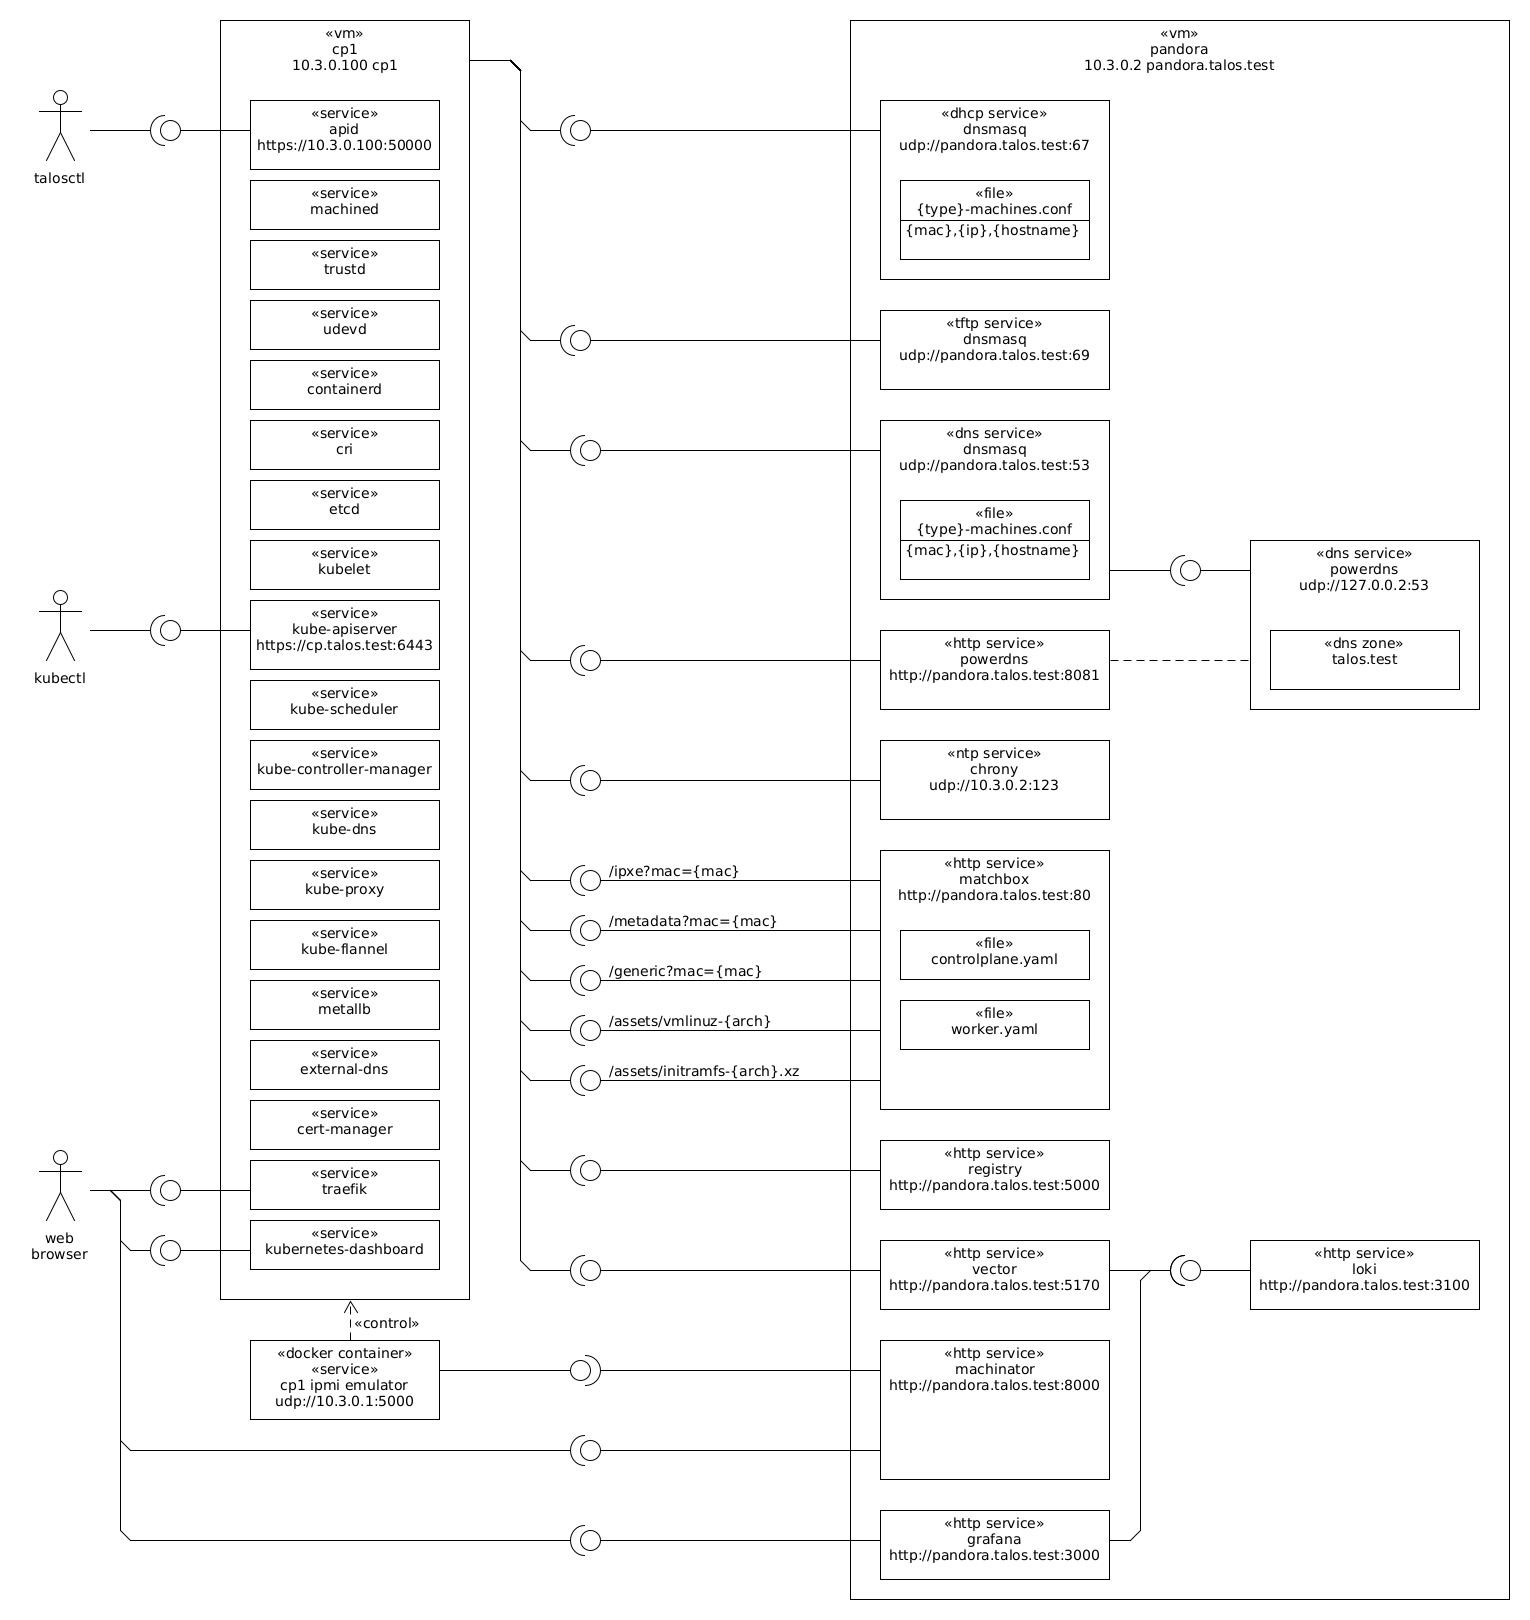
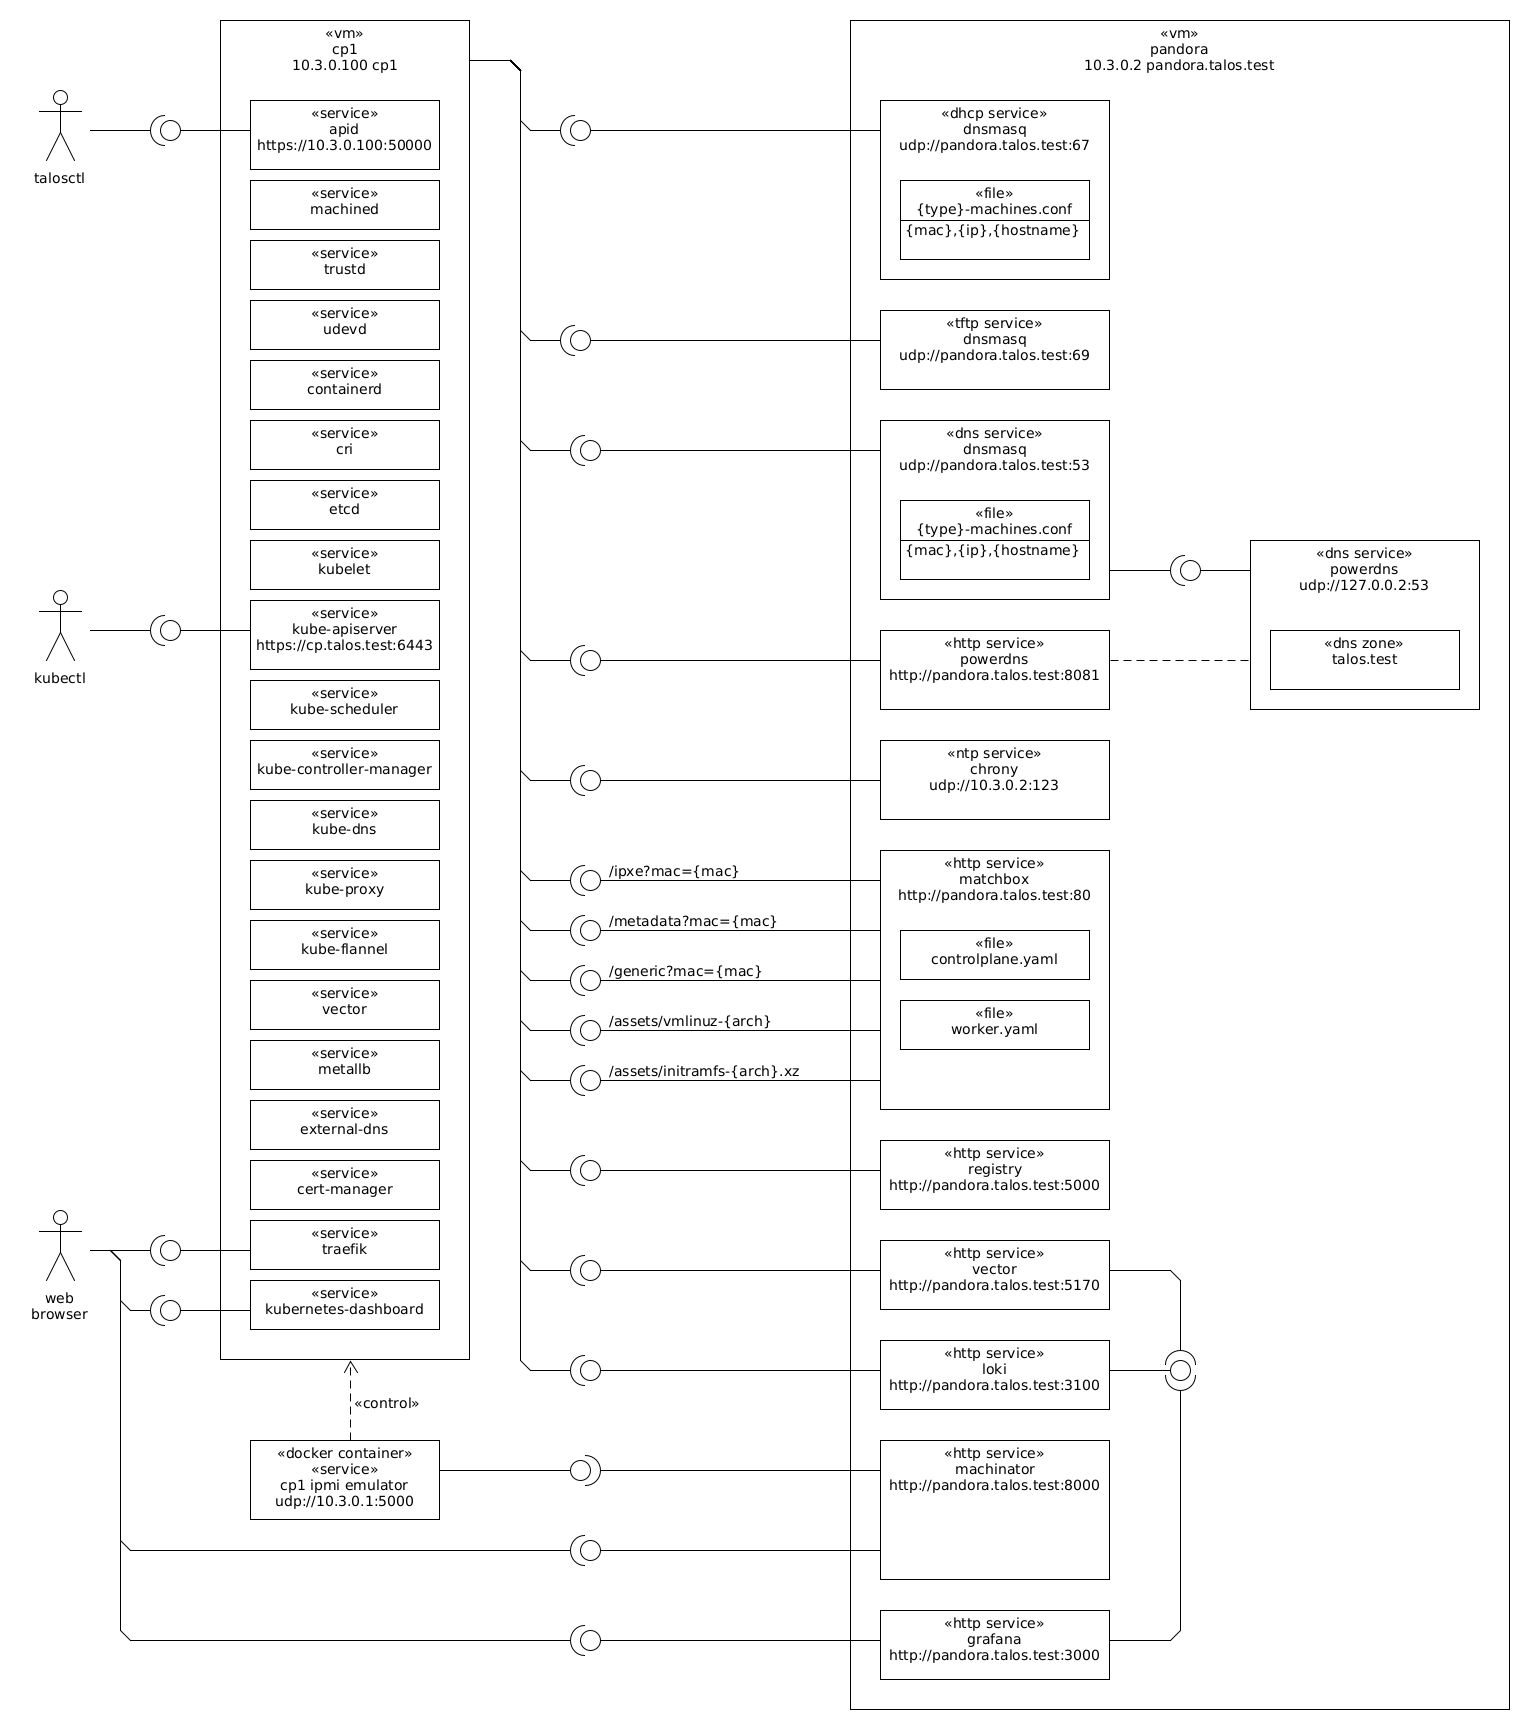
install the vector agent to ship the kubernetes logs to loki

diff --git a/lib.rb b/lib.rb
@@ -23,6 +23,7 @@ def save_config
     'CONFIG_PANDORA_IP': CONFIG_PANDORA_IP,
     'CONFIG_CONTROL_PLANE_VIP': CONFIG_CONTROL_PLANE_VIP,
     'CONFIG_PANDORA_LOAD_BALANCER_RANGE': CONFIG_PANDORA_LOAD_BALANCER_RANGE,
+    'CONFIG_VECTOR_CHART_VERSION': CONFIG_VECTOR_CHART_VERSION,
     'CONFIG_METALLB_CHART_VERSION': CONFIG_METALLB_CHART_VERSION,
     'CONFIG_EXTERNAL_DNS_CHART_VERSION': CONFIG_EXTERNAL_DNS_CHART_VERSION,
     'CONFIG_CERT_MANAGER_CHART_VERSION': CONFIG_CERT_MANAGER_CHART_VERSION,
